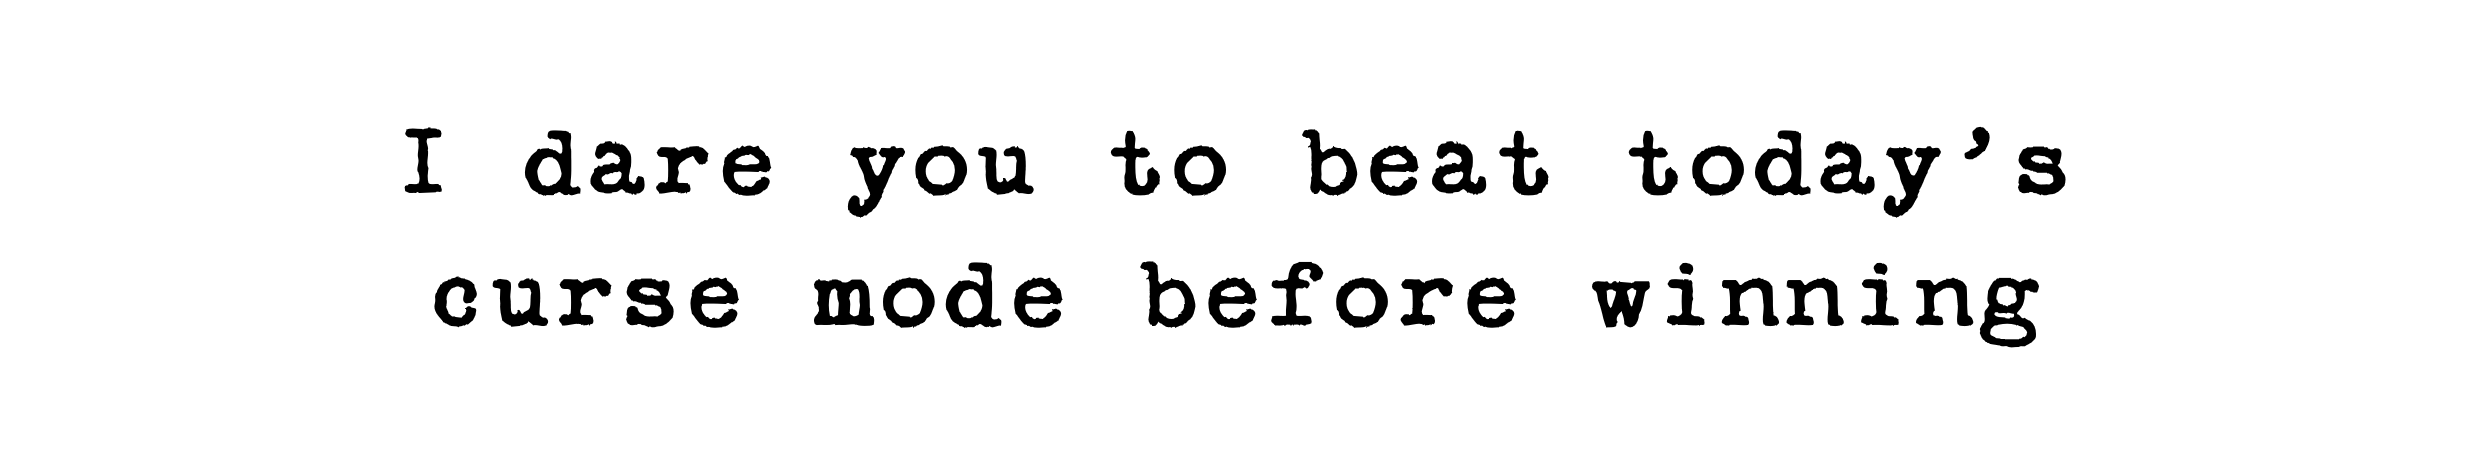
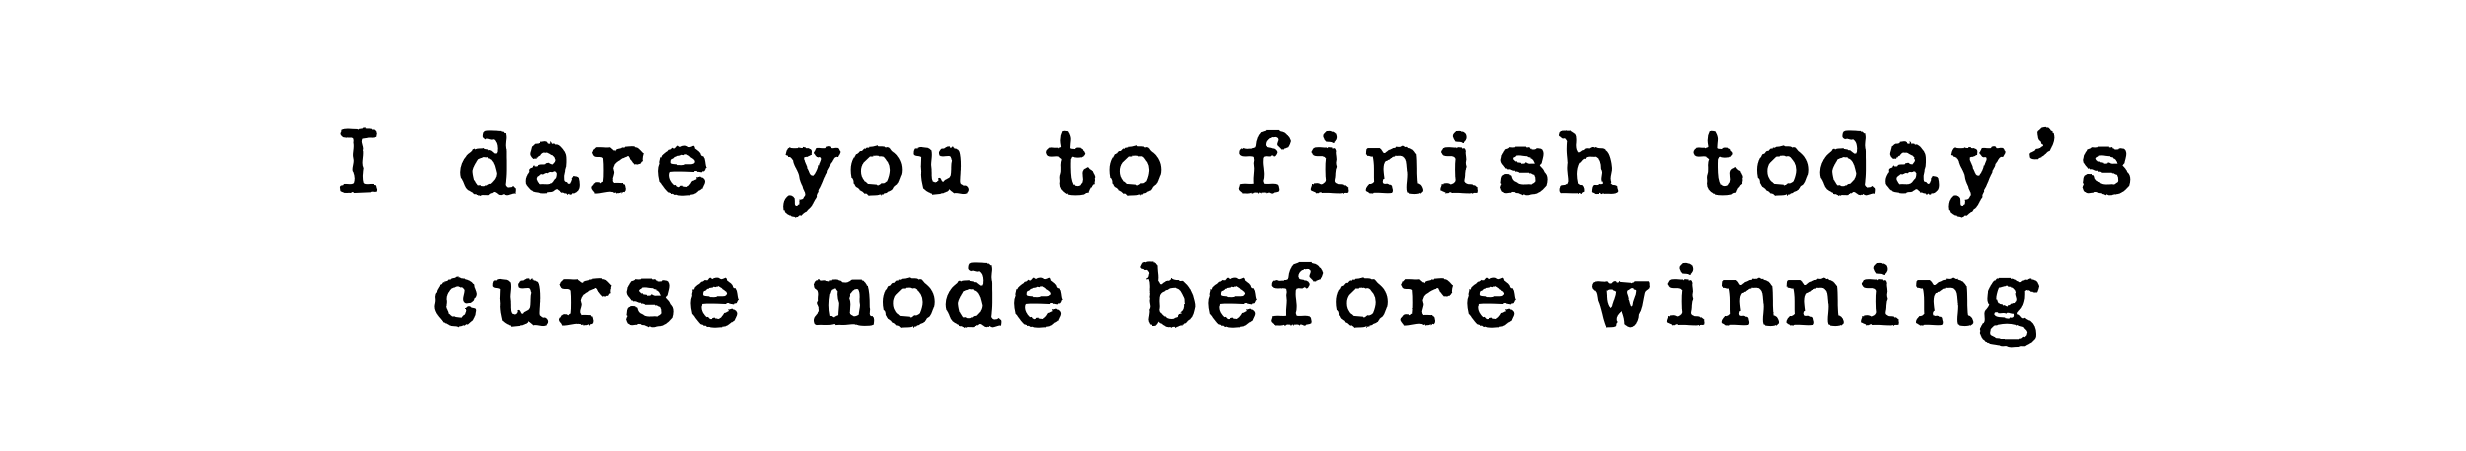
"changes"

Changed region(s): [[0.1249, 0.2794, 0.8743, 0.4967]]

diff --git a/scripts/main.js b/scripts/main.js
@@ -151,6 +151,7 @@ if (!localData || debug) {
         "guesses": [],
         "lastDayPlayed": 0,
         "lastDayWon": 0,
+        "shareString": ""
     }
     if (mode !== "bequest") localData.lastDayEnded = -1;
     if (mode === "dare") {
@@ -194,6 +195,10 @@ if (oldData) {
     if (mode === "bequest") localData = oldData;
     localStorage.setItem('bequestData', JSON.stringify(oldData));
     localStorage.removeItem('localData');
+}
+if (!("shareString" in localData)) {
+    localData.shareString = "";
+    saveData();
 }
 
 // Updating stuff from settings
@@ -306,11 +311,11 @@ const dares = [
     {"name": "onlySearch", "startState": true, "incompatibleRooms": [], "incompatibleDares": ["filterClear", "chooseTimer", "cropped", "keepGreen"]},
     {"name": "sixColors", "startState": false, "incompatibleRooms": ["aquarium", "electriceelaquarium", "corriyard", "thearmory", "maidschamber"], "incompatibleDares": []},
     {"name": "noTypeIcon", "startState": true, "incompatibleRooms": floorplans.filter(fp => fp.types.some(t => hasIcon.includes(t))).map(fp => fp.name), "incompatibleDares": []},
-    {"name": "startEntrance", "startState": false, "incompatibleRooms": ["entrancehall"], "incompatibleDares": ["randomFirst", yesterdayFloorplans.includes("entrancehall") ? "yesterdayRooms" : ""]},
+    {"name": "startEntrance", "startState": false, "incompatibleRooms": ["entrancehall"], "incompatibleDares": ["randomFirst", "no3Types", yesterdayFloorplans.includes("entrancehall") ? "yesterdayRooms" : ""]},
     {"name": "curseMode", "startState": false, "incompatibleRooms": [], "incompatibleDares": []},
     {"name": "chess", "startState": false, "incompatibleRooms": [], "incompatibleDares": ["keepGreen"]},
-    {"name": "totalCost", "startState": true, "incompatibleRooms": ["trophyroom", "throneroom", "throneoftheblueprince"], "incompatibleDares": []},
-    {"name": "no3Types", "startState": true, "incompatibleRooms": floorplans.filter(fp => fp.types.length >= 3).map(fp => fp.name), "incompatibleDares": []},
+    {"name": "totalCost", "startState": true, "incompatibleRooms": floorplans.filter(fp => fp.cost === 0 || fp.cost === 5).map(fp => fp.name), "incompatibleDares": []},
+    {"name": "no3Types", "startState": true, "incompatibleRooms": floorplans.filter(fp => fp.types.length >= 3).map(fp => fp.name), "incompatibleDares": ["startEntrance"]},
     {"name": "limitedRarities", "startState": true, "incompatibleRooms": ["entrancehall", "antechamber", "room46"], "incompatibleDares": ["allRarities"]},
     {"name": "hideHistory", "startState": true, "incompatibleRooms": [], "incompatibleDares": ["deadEndEquals", "dupeFirstLetters"]},
     {"name": "diffEntrances", "startState": true, "incompatibleRooms": [], "incompatibleDares": ["keepGreen"]},
@@ -1591,6 +1596,8 @@ function initEnding(result) {
     shareString += currentGuesses.length.toString() + (currentGuesses.length === 1 ? " guess" : " guesses");
     if (mode !== "bequest") shareString += " - " + result;
     if (mode === "curse" && steps > 0) shareString += " " + steps.toString() + ` step${steps > 1 ? 's' : ''} remaining`;
+    localData.shareString = shareString;
+    saveData();
 
     // Resetting streak if lost
     if (result === "DEFEAT" && !endless) {
@@ -1666,6 +1673,9 @@ function initEnding(result) {
         // Playing sfx
         if (settings.sound) exitSFX.play();
 
+        // Setting copy text
+        document.getElementById("copied-text").innerText = "Copied " + mode + " mode results to clipboard!"
+
         // Showing copied text
         if (copiedTimer) clearTimeout(copiedTimer);
         document.getElementById("copied-text").classList.remove("hidden");
@@ -1675,17 +1685,53 @@ function initEnding(result) {
         return;
     });
     document.getElementById("ending-discord-button").addEventListener("click", () => {
-        const lines = shareString.split('\n');
-        for(let i = 0; i < lines.length; i++) {
-            if (i !== 0 && i !== 1 && i !== lines.length - 1) {
-                const fp = floorplans.find(fp => fp.name === currentGuesses[i-2]);
-                if (fp) lines[i] = lines[i] + " ||" + fp.displayName + "||";
+        function addNames(tempShareString, tempGuesses) {
+            const lines = tempShareString.split('\n');
+            for(let i = 0; i < lines.length; i++) {
+                if (i !== 0 && i !== 1 && i !== lines.length - 1) {
+                    const fp = floorplans.find(fp => fp.name === tempGuesses[i-2]);
+                    if (fp) lines[i] = lines[i] + " ||" + fp.displayName + "||";
+                }
             }
+            let discordShareString = lines.join('\n');
+            discordShareString = discordShareString.replaceAll("THRONE OF THE BLUE PRINCE", "TotBP");
+            discordShareString = discordShareString.replaceAll("MOUNT HOLLY GIFT SHOP", "GIFT SHOP");
+            return discordShareString;
         }
-        navigator.clipboard.writeText(lines.join('\n'));
 
         // Playing sfx
         if (settings.sound) exitSFX.play();
+
+        // Setting copy text
+        if (endless) {
+            document.getElementById("copied-text").innerText = "Copied results to clipboard!"
+            navigator.clipboard.writeText(addNames(shareString, currentGuesses));
+        } else {
+            let finishedModes = 0;
+            let finalShareString = "";
+            const dayOffset = mode === "bequest" ? 0 : 17;
+
+            let tempData = JSON.parse(localStorage.getItem("bequestData"));
+            if (tempData && "shareString" in tempData && tempData.lastDayWon === daysSinceLaunch + dayOffset) {
+                finishedModes++;
+                finalShareString += addNames(tempData.shareString, tempData.guesses);
+            }
+
+            tempData = JSON.parse(localStorage.getItem("dareData"));
+            if (tempData && "shareString" in tempData && tempData.lastDayWon === daysSinceLaunch - (17-dayOffset)) {
+                finishedModes++;
+                finalShareString += (finalShareString !== "" ? '\n\n' : "") + addNames(tempData.shareString, tempData.guesses);
+            }
+
+            tempData = JSON.parse(localStorage.getItem("curseData"));
+            if (tempData && "shareString" in tempData && tempData.lastDayWon === daysSinceLaunch - (17-dayOffset)) {
+                finishedModes++;
+                finalShareString += (finalShareString !== "" ? '\n\n' : "") + addNames(tempData.shareString, tempData.guesses);
+            }
+
+            navigator.clipboard.writeText(finalShareString);
+            document.getElementById("copied-text").innerText = "Copied " + finishedModes + (finishedModes === 1 ? " mode's" : " modes'") + " results to clipboard!";
+        }
 
         // Showing copied text
         if (copiedTimer) clearTimeout(copiedTimer);
@@ -2001,14 +2047,22 @@ function dareEndingCheck(dare) {
         
         case "deadEndEquals":
             let deadEndTally = 0;
+            let otherTally = 0;
             currentGuesses.forEach((guess) => {
-                if (floorplans.find(fp => fp.name === guess).types.includes("Dead End")) {
+                const floorplan = floorplans.find(fp => fp.name === guess);
+                if (floorplan.types.includes("Dead End")) {
                     deadEndTally++;
+                    otherTally++;
                 } else {
                     deadEndTally--;
+                    if (floorplan.types.includes('"Dead End"')) {
+                        otherTally++;
+                    } else {
+                        otherTally--;
+                    }
                 }
             });
-            return deadEndTally === 0;
+            return deadEndTally === 0 || otherTally === 0;
         
         case "sixColors":
             const colorsTracker = [];
@@ -2042,7 +2096,6 @@ function dareEndingCheck(dare) {
 
 
 function startLavatoryTimer() {
-    const lavatoryDare = dare1 === "lavatoryWait" ? 1 : 2;
     let timePassed = false;
     const lavatoryTimer = setTimeout(() => {
         dare1 === "lavatoryWait" ? dare1State = true : dare2State = true;

diff --git a/scripts/floorplans.js b/scripts/floorplans.js
@@ -68,7 +68,7 @@ export const floorplans = [
     {"name": "herladyshipschamber", "displayName": "HER LADYSHIP'S CHAMBER", "cost": 0, "types": ["Bedroom", "Dead End"], "rarity": 4, "entrances": 1},
     {"name": "masterbedroom", "displayName": "MASTER BEDROOM", "cost": 2, "types": ["Bedroom", "Dead End"], "rarity": 4, "entrances": 1},
     {"name": "hallway", "displayName": "HALLWAY", "cost": 0, "types": ["Hallway"], "rarity": 1, "entrances": 3},
-    {"name": "hallway2", "displayName": "HALLWAY", "cost": 0, "types": ["Tomorrow", "Hallway", "Upgrade"], "rarity": 1, "entrances": 3},
+    {"name": "hallway2", "displayName": "HALLWAY (TOMORROW)", "cost": 0, "types": ["Tomorrow", "Hallway", "Upgrade"], "rarity": 1, "entrances": 3},
     {"name": "westwinghall", "displayName": "WEST WING HALL", "cost": 0, "types": ["Hallway"], "rarity": 2, "entrances": 3},
     {"name": "eastwinghall", "displayName": "EAST WING HALL", "cost": 0, "types": ["Hallway"], "rarity": 3, "entrances": 3},
     {"name": "corridor", "displayName": "CORRIDOR", "cost": 0, "types": ["Hallway"], "rarity": 1, "entrances": 2},
@@ -85,7 +85,7 @@ export const floorplans = [
     {"name": "cloisterofdraxus", "displayName": "CLOISTER OF DRAXUS", "cost": 0, "types": ["Red Room", "Upgrade"], "rarity": 3, "entrances": 4},
     {"name": "veranda", "displayName": "VERANDA", "cost": 2, "types": ["Green Room"], "rarity": 3, "entrances": 2},
     {"name": "greenhouse", "displayName": "GREENHOUSE", "cost": 1, "types": ["Drafting", "Green Room", "Dead End"], "rarity": 2, "entrances": 1},
-    {"name": "greenhousesecret", "displayName": "GREENHOUSE", "cost": 1, "types": ["Green Room", ""], "rarity": 2, "entrances": 2},
+    {"name": "greenhousesecret", "displayName": "GREENHOUSE (SECRET)", "cost": 1, "types": ["Green Room", ""], "rarity": 2, "entrances": 2},
     {"name": "morningroom", "displayName": "MORNING ROOM", "cost": 0, "types": ["Tomorrow", "Green Room", "Addition"], "rarity": 4, "entrances": 2},
     {"name": "secretgarden", "displayName": "SECRET GARDEN", "cost": 0, "types": ["Spread", "Green Room"], "rarity": 4, "entrances": 3},
     {"name": "commissary", "displayName": "COMMISSARY", "cost": 1, "types": ["Shop"], "rarity": 2, "entrances": 2},